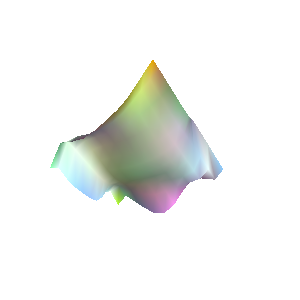
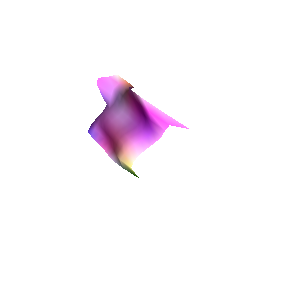
fixed errors in DPMixture

Changed region(s): [[0.15, 0.21, 0.75, 0.72]]

diff --git a/distributions.py b/distributions.py
@@ -1,5 +1,5 @@
 import numpy as np
-import pdb,math
+import pdb,math,copy
 from scipy.special import gammaln
 from numpy import array, log, exp
 
@@ -45,11 +45,17 @@ class CRP():
 	def sample_pt(self,indx):
 		N = self.N; alpha = self.alpha
 		cur_cid = self.Z[indx]
-		allcids = self.countvec.keys()
+
+		countvec = self.countvec
+		countvec[cur_cid] -= 1
+		if countvec[cur_cid] <= 0:
+			del countvec[cur_cid]
+
+		allcids = countvec.keys()
 		ii=0
 		probabilities=list(np.zeros(len(allcids)+1))
 		for cid in allcids:
-			probabilities[ii]=self.countvec[cid]/(N-1.0+alpha)
+			probabilities[ii]=countvec[cid]/(N-1.0+alpha)
 			ii+=1
 		allcids.append(max(allcids)+1)
 		probabilities[-1]=alpha/(N-1.0+alpha)
@@ -58,14 +64,13 @@ class CRP():
 		indx = np.random.multinomial(1,probabilities)
 		indx = np.where(indx==1)[0][0]
 		chosen_cid = allcids[indx]
+
 		#remove and add in counvec dict
-		if self.countvec.has_key(chosen_cid):
-			self.countvec[chosen_cid]+=1
+		if countvec.has_key(chosen_cid):
+			countvec[chosen_cid]+=1
 		else:
-			self.countvec[chosen_cid]=1
-		self.countvec[cur_cid]-=1
-		if self.countvec[cur_cid] <= 0:
-			del self.countvec['cur_cid']
+			countvec[chosen_cid]=1
+
 		self.Z[indx] = chosen_cid
 		return chosen_cid
 

diff --git a/sampler.py b/sampler.py
@@ -233,10 +233,10 @@ class Sampler():
 		#remove stale params
 		for cid in nparams['theta_c_crp'].keys():
 			if nparams['Z_CRPOBJ'].countvec.has_key(cid) == False:
-				del(nparams['theta_c_crp'], cid)
+				del nparams['theta_c_crp'][cid]
 
 		for cid in allcids:
-			if sample:
+			if sample or nparams['theta_c_crp'].has_key(cid) == False:
 				if nparams['theta_c_crp'].has_key(cid) == False:
 					nparams['theta_c_crp'][cid]=np.zeros(6)
 				nparams['theta_c_crp'][cid][0]=1;nparams['theta_c_crp'][cid][2]=1;nparams['theta_c_crp'][cid][4]=1;

diff --git a/bezier.py b/bezier.py
@@ -190,7 +190,9 @@ def display(surfaces, capture=False):
 		#glRotatef( -45, 0, 1, 0)
 		#glRotatef( np.random.uniform(0,360), 0,0,1)
 		for ii in surfaces.keys():
+			glPushMatrix()
 			surfaces[ii].render()
+			glPopMatrix()
 		glPopMatrix()
 		if capture:	
 			captured_image = captureImage()
